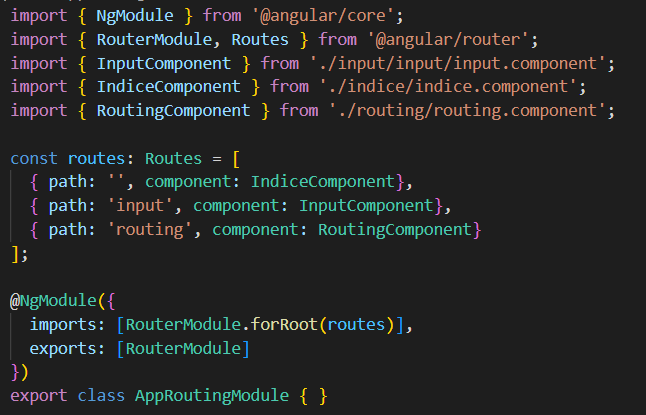
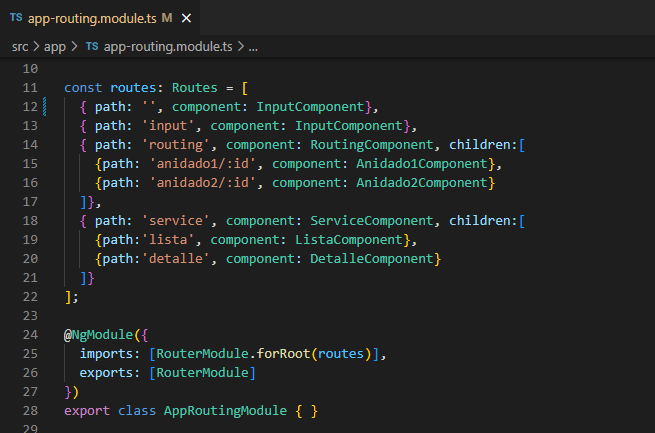
Se actualizo los componentes Indice y Routing

Changed region(s): [[0.0, 0.0, 0.9598, 1.0], [0.4025, 0.0289, 0.6192, 0.0578]]

diff --git a/src/app/app-routing.module.ts b/src/app/app-routing.module.ts
@@ -1,7 +1,6 @@
 import { NgModule } from '@angular/core';
 import { RouterModule, Routes } from '@angular/router';
 import { InputComponent } from './input/input/input.component';
-import { IndiceComponent } from './indice/indice.component';
 import { RoutingComponent } from './routing/routing.component';
 import { Anidado1Component } from './routing/anidado1/anidado1.component';
 import { Anidado2Component } from './routing/anidado2/anidado2.component';
@@ -10,7 +9,7 @@ import { ListaComponent } from './service/lista/lista.component';
 import { DetalleComponent } from './service/detalle/detalle.component';
 
 const routes: Routes = [
-  { path: '', component: IndiceComponent},
+  { path: '', component: InputComponent},
   { path: 'input', component: InputComponent},
   { path: 'routing', component: RoutingComponent, children:[
     {path: 'anidado1/:id', component: Anidado1Component},

diff --git a/src/app/app.module.ts b/src/app/app.module.ts
@@ -14,6 +14,7 @@ import { Anidado2Component } from './routing/anidado2/anidado2.component';
 import { ServiceComponent } from './service/service.component';
 import { ListaComponent } from './service/lista/lista.component';
 import { DetalleComponent } from './service/detalle/detalle.component';
+import { HomeComponent } from './home/home.component';
 
 @NgModule({
   declarations: [
@@ -27,7 +28,8 @@ import { DetalleComponent } from './service/detalle/detalle.component';
     Anidado2Component,
     ServiceComponent,
     ListaComponent,
-    DetalleComponent
+    DetalleComponent,
+    HomeComponent
   ],
   imports: [
     BrowserModule,

diff --git a/src/app/home/home.component.spec.ts b/src/app/home/home.component.spec.ts
@@ -1,0 +1,23 @@
+import { ComponentFixture, TestBed } from '@angular/core/testing';
+
+import { HomeComponent } from './home.component';
+
+describe('HomeComponent', () => {
+  let component: HomeComponent;
+  let fixture: ComponentFixture<HomeComponent>;
+
+  beforeEach(async () => {
+    await TestBed.configureTestingModule({
+      declarations: [HomeComponent]
+    })
+    .compileComponents();
+    
+    fixture = TestBed.createComponent(HomeComponent);
+    component = fixture.componentInstance;
+    fixture.detectChanges();
+  });
+
+  it('should create', () => {
+    expect(component).toBeTruthy();
+  });
+});

diff --git a/src/app/routing/routing.component.html b/src/app/routing/routing.component.html
@@ -3,11 +3,13 @@
 <div>
     <img src="../../assets/AppRouting.PNG">
 </div>
+<br>
 <p>Agregar en app.component la etiqueta router-outlet para mostrar el componente deseado</p>
 <div>
     <img src="../../assets/AppComponent.PNG">
 </div>
-<p>Crear un componente Indice, donde voy a agregar el comando routerLink para mostra el componente deseado</p>
+<br>
+<p>Crear un componente Indice, donde voy a agregar el comando routerLink para mostra el componente deseado. Este componente va a ser llamado desde el AppComponent</p>
 <div>
     <img src="../../assets/Indice.PNG">
 </div>

diff --git a/src/app/indice/indice.component.html b/src/app/indice/indice.component.html
@@ -1,11 +1,9 @@
-<ul>
-    <li>
-        <a routerLink="input">Input</a>
-    </li>
-    <li>
-        <a routerLink="routing">Routing</a>
-    </li>
-    <li>
-        <a routerLink="service/lista">Service</a>
-    </li>    
-</ul>
+<nav class="navbar navbar-default">
+<div class="container-fluid">
+    <ul class="nav navbar-nav">                
+        <li><a routerLink="input" href="#">Input</a></li>
+        <li><a routerLink="routing" href="#">Routing</a></li>
+        <li><a routerLink="service/lista" href="#">Service</a></li>
+    </ul>
+</div>
+</nav>

diff --git a/src/app/app.component.html b/src/app/app.component.html
@@ -1,2 +1,6 @@
-<a routerLink="">Indice</a>
+<link rel="stylesheet" href="https://maxcdn.bootstrapcdn.com/bootstrap/3.4.1/css/bootstrap.min.css">
+<script src="https://ajax.googleapis.com/ajax/libs/jquery/3.7.1/jquery.min.js"></script>
+<script src="https://maxcdn.bootstrapcdn.com/bootstrap/3.4.1/js/bootstrap.min.js"></script>
+
+<app-indice></app-indice>
 <router-outlet></router-outlet>

diff --git a/src/app/home/home.component.ts b/src/app/home/home.component.ts
@@ -1,0 +1,10 @@
+import { Component } from '@angular/core';
+
+@Component({
+  selector: 'app-home',
+  templateUrl: './home.component.html',
+  styleUrl: './home.component.scss'
+})
+export class HomeComponent {
+
+}

diff --git a/src/app/home/home.component.html b/src/app/home/home.component.html
@@ -1,0 +1,1 @@
+<app-indice></app-indice>
